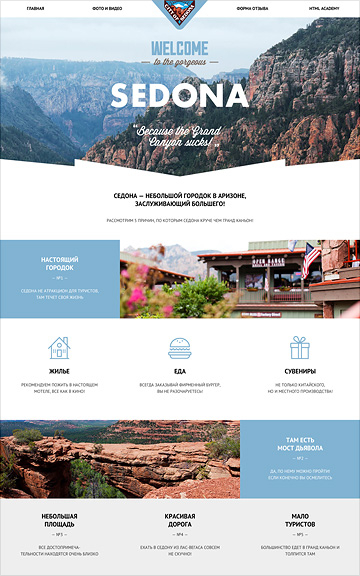
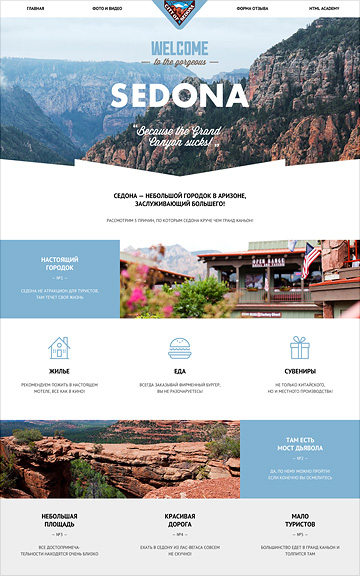
изображения оптимизированы, карта и нердс-иллюстрейшн заменено на jpg, ссылки на них заменены соответственно

Changed region(s): [[0.4583, 0.0, 0.55, 0.0312]]

diff --git a/index.html b/index.html
@@ -98,7 +98,7 @@
 						</ul>
 				</div>
 				<footer class="article-footer">
-					<img src="img/nerds-illustration.png" alt="Логотип Нердс (веселая версия)" width="360" height="208">
+					<img src="img/nerds-illustration.jpg" alt="Логотип Нердс (веселая версия)" width="360" height="208">
 					<table class="nerds-facts">
 						<caption>С 2004 года любим точность во всем:</caption>
 						<tr class="nerds-procents">
@@ -143,7 +143,7 @@
 		<footer class="main-footer">
 			<section class="nerds-real-contacts">
 				<h2 class="visually-hidden">Связаться с Нердс</h2>
-				<img src="img/map-with-nerds.png" alt="Карта с Нердс" width="1440" height="416">
+				<img src="img/map-with-nerds.jpg" alt="Карта с Нердс" width="1440" height="416">
 				<div class="nerds-address">
 					<h3>Nёrds design studio</h3>
 					<p>

diff --git a/catalog.html b/catalog.html
@@ -142,7 +142,7 @@
 		<footer class="main-footer">
 			<section class="nerds-real-contacts">
 				<h2 class="visually-hidden">Связаться с Нердс</h2>
-				<img src="img/map-with-nerds.png" alt="Карта с Нердс" width="1440" height="416">
+				<img src="img/map-with-nerds.jpg" alt="Карта с Нердс" width="1440" height="416">
 				<div class="nerds-address">
 					<h3>Nёrds design studio</h3>
 					<p>
